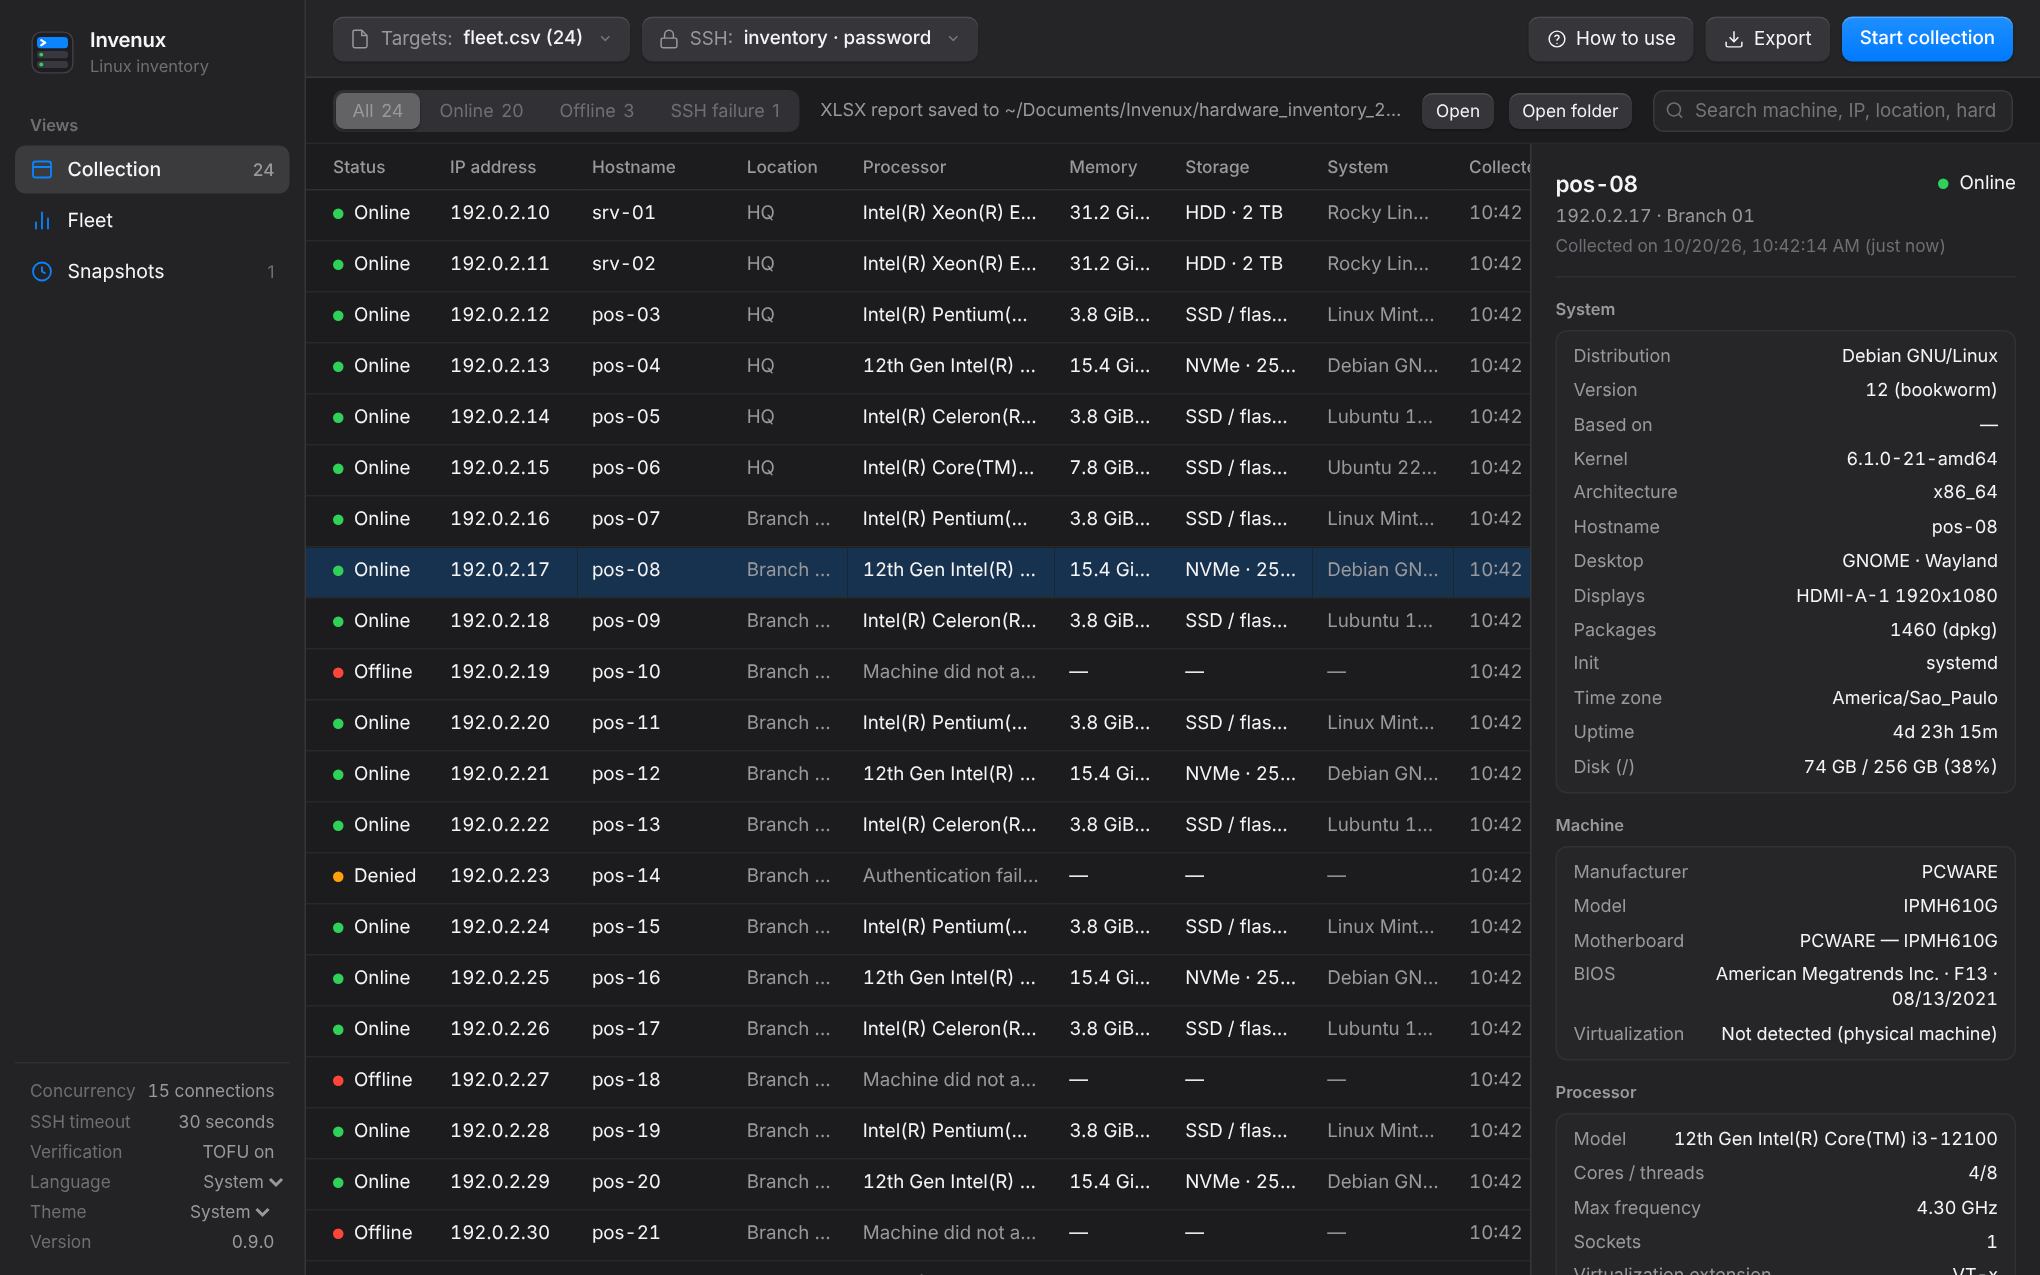
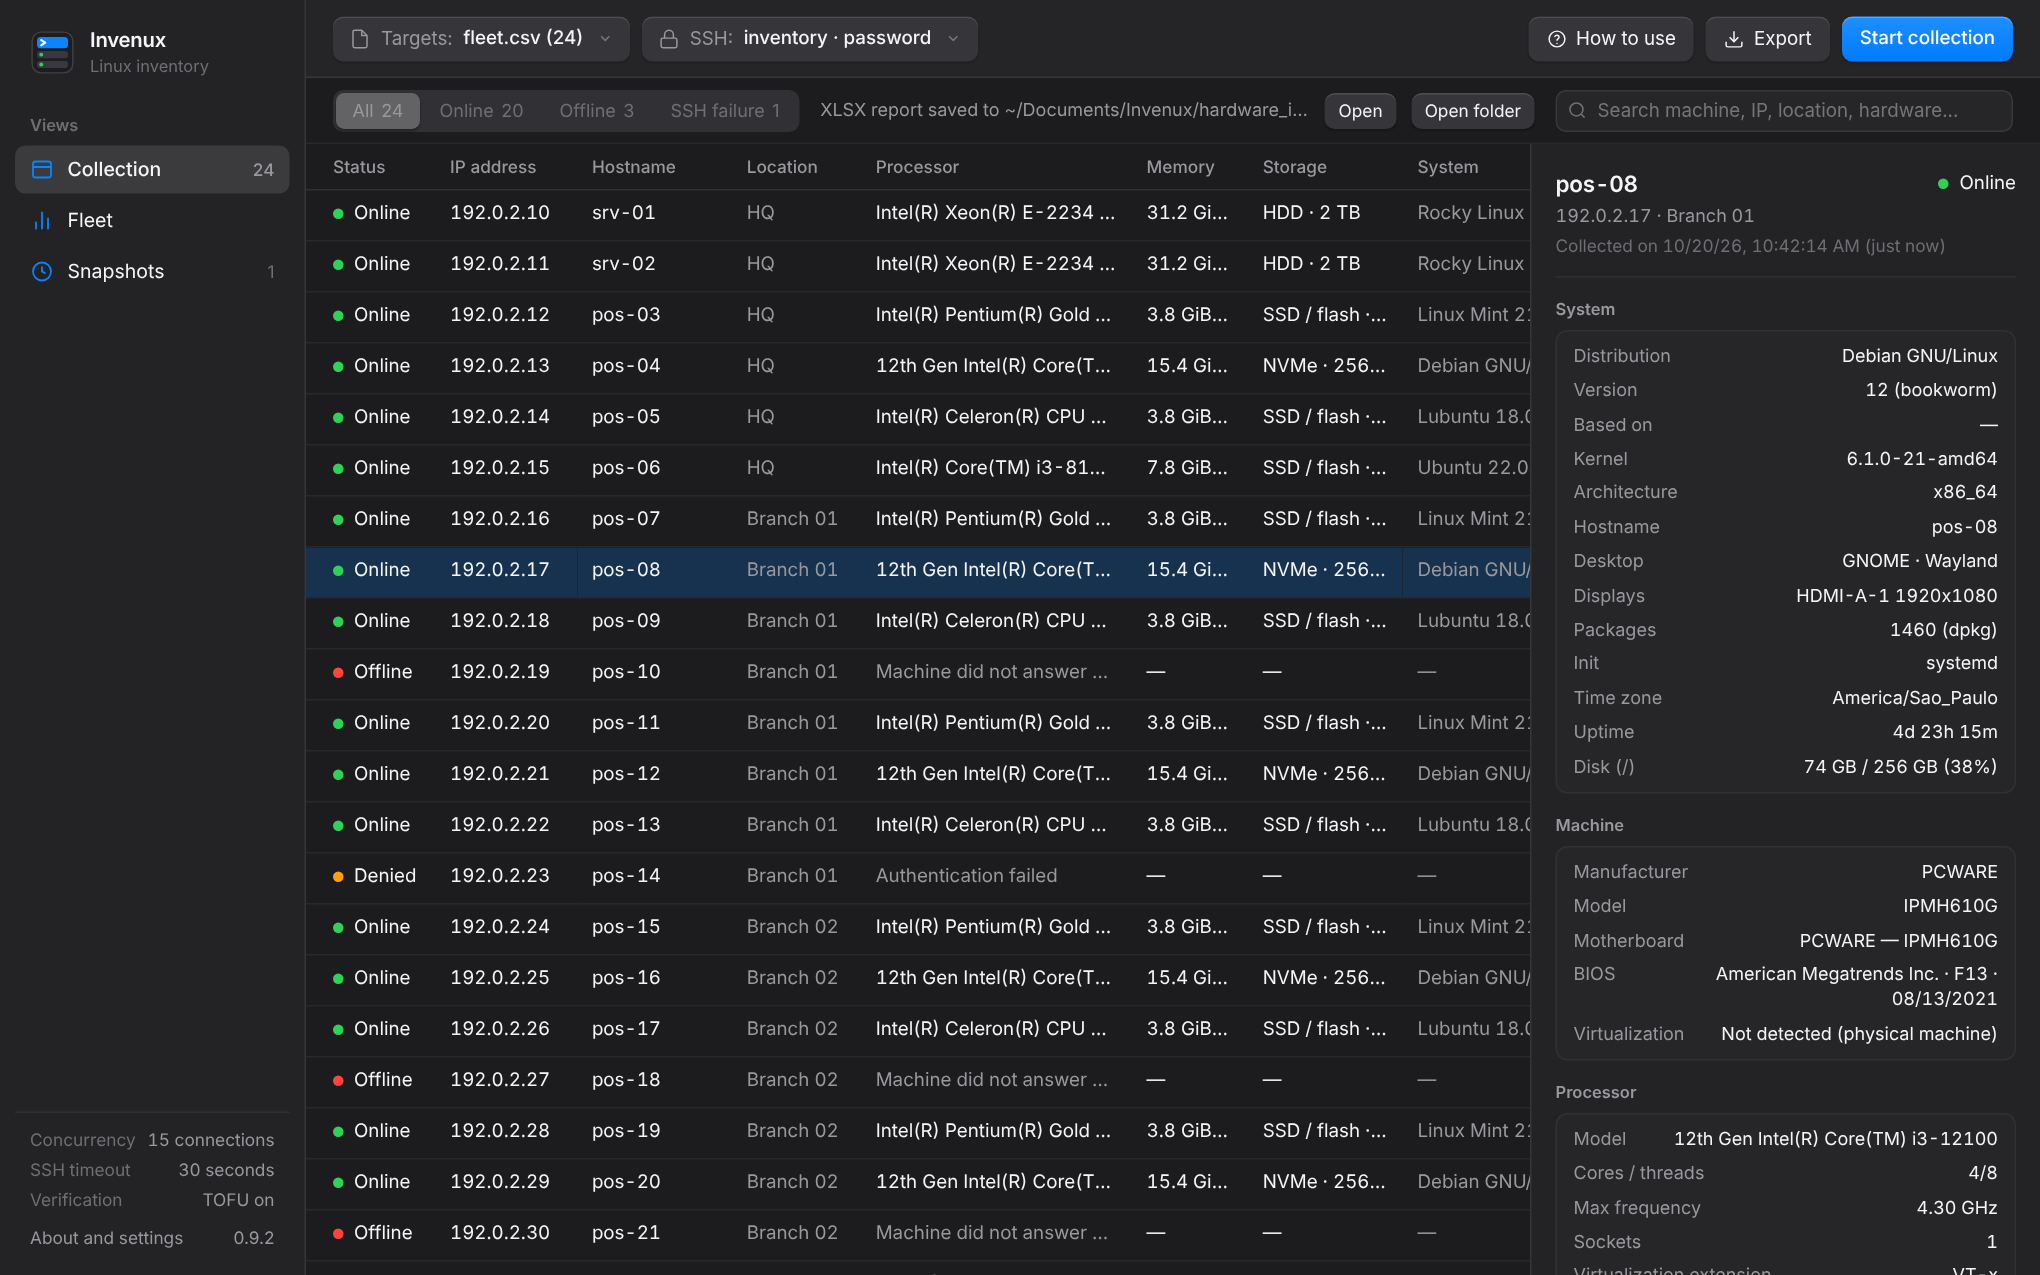
docs: describe about and settings and the cli password

diff --git a/README.pt-BR.md b/README.pt-BR.md
@@ -62,11 +62,11 @@ Sem agente e só leitura: nada é instalado ou gravado nas máquinas.
 | **Snapshots** | Histórico local de cada coleta com comparação campo a campo, exportável em CSV. |
 | **Exportação** | Excel (resumo com barras de proporção, inventário agrupado por assunto), HTML interativo que funciona offline, CSV com proteção contra fórmulas. |
 | **Interface** | Português, inglês e espanhol, seguindo o idioma do sistema; guia embutido com tutorial animado; redimensionável até 720 × 520. |
-| **Desktop** | Janela nativa no Linux, Windows e macOS (pywebview ou GTK), ou o navegador; pacotes prontos para os três sistemas; tema claro e escuro; versão na barra lateral e atualização com um clique quando sai versão nova. |
+| **Desktop** | Janela nativa no Linux, Windows e macOS (pywebview ou GTK), ou o navegador; pacotes prontos para os três sistemas; janela Sobre e ajustes (rodapé da barra lateral ou nome do app) com idioma, tema claro ou escuro, versão e atualização com um clique quando sai versão nova. |
 
 <div align="center">
 
-<img src="docs/media/hero-pt-br.png" width="900" alt="Visão Coleta: 24 máquinas com status, endereço, hostname, local, processador, memória, armazenamento, sistema e horário da coleta, e os detalhes de uma máquina à direita">
+<img src="docs/media/hero-pt-br.png" width="900" alt="Visão Coleta: 24 máquinas com status, endereço, hostname, local, processador, memória, armazenamento e sistema, e os detalhes de uma máquina à direita">
 
 </div>
 
@@ -144,10 +144,11 @@ No Linux, `./install.sh` na pasta extraída da release copia o programa para `~/
 
 O botão `Como usar` tem o tutorial animado, o formato da planilha, o significado de cada status e botões para abrir as pastas de relatórios, histórico e logs.
 
-**Linha de comando.** Coleta e exporta sem interface (só com chave privada):
+**Linha de comando.** Coleta e exporta sem interface. Use `--key`, ou a senha pela variável de ambiente `INVENUX_SSH_PASSWORD` ou por `--ask-password` (pergunta sem mostrar o que é digitado); não existe opção de senha, para ela nunca aparecer na lista de processos nem no histórico do shell:
 
 ```sh
 python3 app.py --input maquinas.xlsx --user inventario --key ~/.ssh/id_ed25519 --ssh-port 22 --output-format XLSX
+python3 app.py --input maquinas.xlsx --user inventario --ask-password
 ```
 
 ## A planilha
@@ -197,7 +198,7 @@ As pastas do nome antigo (`invent-ssh`) são copiadas na primeira execução.
 - A senha SSH nunca é gravada em disco.
 - As chaves de host usam confiança no primeiro acesso por padrão: chave nova é guardada, chave trocada é recusada. Desligue no painel SSH para aceitar só chaves já conhecidas.
 - As exportações em planilha neutralizam valores que começam como fórmula; o relatório HTML escapa cada valor coletado.
-- Sem telemetria. Além do SSH para as máquinas da sua lista, o único acesso é a leitura da última release na API do GitHub ao abrir (`api.github.com/repos/lucaswotta/invenux/releases/latest`); desligue na tela de ajuda. Atualizações são conferidas com o `SHA256SUMS` da release antes de abrir ou instalar.
+- Sem telemetria. Além do SSH para as máquinas da sua lista, o único acesso é a leitura da última release na API do GitHub ao abrir (`api.github.com/repos/lucaswotta/invenux/releases/latest`); desligue em Sobre e ajustes. Atualizações são conferidas com o `SHA256SUMS` da release antes de abrir ou instalar.
 
 Vulnerabilidades devem ser reportadas em privado, veja [SECURITY.md](SECURITY.md).
 

diff --git a/README.md b/README.md
@@ -62,11 +62,11 @@ Agentless and read-only: nothing is installed or written on the machines.
 | **Snapshots** | Local history of every collection with a field-by-field comparison, exportable to CSV. |
 | **Exports** | Excel (summary with data bars, inventory grouped by subject), interactive HTML that works offline, CSV with formula injection neutralized. |
 | **Interface** | English, Portuguese (Brazil) and Spanish, following the system language; built-in guide with an animated tutorial; resizable down to 720 × 520. |
-| **Desktop** | Native window on Linux, Windows and macOS (pywebview or GTK), or your browser; packaged builds for the three systems; light and dark themes; the version in the sidebar and a one-click update to a newer release. |
+| **Desktop** | Native window on Linux, Windows and macOS (pywebview or GTK), or your browser; packaged builds for the three systems; an About and settings sheet (sidebar footer or the app name) with language, light or dark theme, the version and a one-click update to a newer release. |
 
 <div align="center">
 
-<img src="docs/media/hero-en.png" width="900" alt="Collection view: 24 machines with status, address, hostname, location, processor, memory, storage, system and collection time, and the details of one machine on the right">
+<img src="docs/media/hero-en.png" width="900" alt="Collection view: 24 machines with status, address, hostname, location, processor, memory, storage and system, and the details of one machine on the right">
 
 </div>
 
@@ -144,10 +144,11 @@ On Linux, `./install.sh` in the extracted release folder copies the program to `
 
 `How to use` in the toolbar has the animated tutorial, the spreadsheet format, what each status means and buttons to open the report, history and log folders.
 
-**Command line.** Collect and export without the interface (private key only):
+**Command line.** Collect and export without the interface. Use `--key`, or a password from the `INVENUX_SSH_PASSWORD` environment variable or `--ask-password` (asked without echo); there is no password option, so it never shows in the process list or shell history:
 
 ```sh
 python3 app.py --input machines.xlsx --user inventory --key ~/.ssh/id_ed25519 --ssh-port 22 --output-format XLSX
+python3 app.py --input machines.xlsx --user inventory --ask-password
 ```
 
 ## The spreadsheet
@@ -197,7 +198,7 @@ Folders from the old name (`invent-ssh`) are copied over on the first run.
 - The SSH password is never written to disk.
 - Host keys use trust on first use by default: a new key is stored, a changed key is rejected. Turn it off in the SSH panel to accept only keys already known.
 - Spreadsheet exports neutralize values that start like a formula; the HTML report escapes every collected value.
-- No telemetry. Besides SSH to the machines you list, the only request is a read of the latest release from the GitHub API on startup (`api.github.com/repos/lucaswotta/invenux/releases/latest`); turn it off in the help sheet. Updates are checked against the release's `SHA256SUMS` before they are opened or installed.
+- No telemetry. Besides SSH to the machines you list, the only request is a read of the latest release from the GitHub API on startup (`api.github.com/repos/lucaswotta/invenux/releases/latest`); turn it off in About and settings. Updates are checked against the release's `SHA256SUMS` before they are opened or installed.
 
 Report vulnerabilities privately, see [SECURITY.md](SECURITY.md).
 

diff --git a/SECURITY.md b/SECURITY.md
@@ -16,7 +16,7 @@ For a suspected vulnerability, contact the maintainer privately through the cont
 - Reports and logs may contain infrastructure identifiers and should be protected appropriately.
 - Spreadsheet exports neutralize formula-like values; HTML exports escape target-provided and user-supplied fields.
 - `PASSWORD` cells in the target spreadsheet are kept in memory only and never written to records, reports, snapshots or logs; the spreadsheet itself holds them in plain text. Copies of dropped spreadsheets are written with owner-only permissions.
-- On startup the app reads the latest release from the GitHub API unless the check is turned off in the help sheet. An update package is verified against the release's `SHA256SUMS` before it is opened or installed; the packages are not code-signed, so this protects against corruption and partial downloads, not against a compromised release.
+- On startup the app reads the latest release from the GitHub API unless the check is turned off in About and settings. An update package is verified against the release's `SHA256SUMS` before it is opened or installed; the packages are not code-signed, so this protects against corruption and partial downloads, not against a compromised release.
 
 ## Limitations
 
